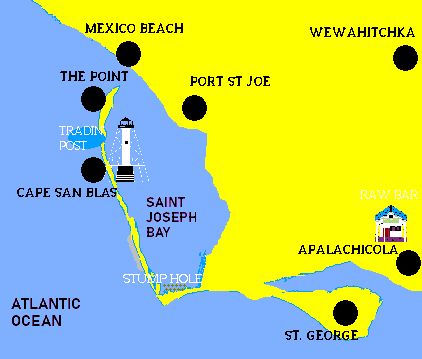
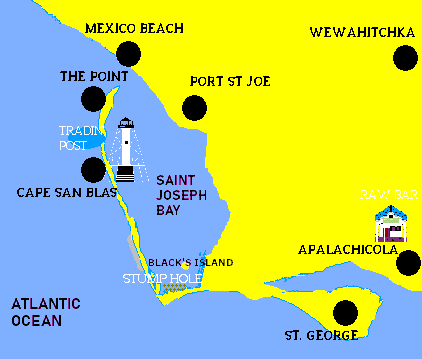
Put black island on world map UI.

Changed region(s): [[0.3389, 0.4903, 0.4929, 0.6741], [0.3389, 0.7047, 0.5545, 0.766]]

diff --git a/core/src/maps/mapchunks/MapChunkFourtyFive.java b/core/src/maps/mapchunks/MapChunkFourtyFive.java
@@ -54,7 +54,7 @@ public class MapChunkFourtyFive extends MapChunk {
 				{2, 2, 2, 2, 2, 2, 2, 2, 0, 0, 0, 0, 0, 0, 0, 0, 0, 0, 0, 0, 0, 0, 0, 0, 0, 0, 0, 0, 0, 0, 0, 0, 0, 0, 0, 0, 0, 0, 0, 0, 0, 0, 0, 0, 0, 0, 0, 2, 2, 2, 3, 3, 2, 2, 2, 2, 2, 2, 2, 2, 2, 2, 2, 7, 2, 2, 2, 2},
 				{0, 0, 2, 2, 2, 2, 2, 2, 2, 2, 0, 0, 0, 0, 0, 0, 0, 0, 0, 0, 0, 0, 0, 0, 0, 0, 0, 0, 0, 0, 0, 0, 0, 0, 0, 0, 0, 0, 0, 0, 0, 0, 0, 0, 0, 0, 0, 0, 2, 2, 2, 2, 2, 2, 2, 2, 2, 2, 2, 2, 2, 2, 2, 7, 2, 2, 2, 2},
 				{0, 2, 2, 2, 2, 2, 2, 2, 2, 2, 0, 0, 0, 0, 0, 0, 0, 0, 0, 0, 0, 0, 0, 0, 0, 0, 0, 0, 0, 0, 0, 0, 0, 0, 0, 0, 0, 0, 0, 0, 0, 0, 0, 0, 0, 0, 0, 0, 0, 2, 2, 2, 2, 2, 2, 2, 2, 2, 2, 2, 2, 2, 2, 7, 2, 2, 2, 2},
-				{2, 2, 2, 2, 2, 2, 2, 2, 2, 3, 0, 0, 0, 0, 0, 0, 0, 0, 0, 0, 0, 0, 0, 0, 0, 0, 0, 0, 0, 0, 0, 0, 0, 0, 0, 0, 0, 0, 0, 0, 0, 0, 0, 0, 0, 0, 0, 0, 0, 0, 0, 2, 2, 2, 2, 2, 2, 2, 2, 2, 2, 2, 2, 7, 2, 2, 2, 2},
+				{2, 2, 2, 2, 2, 2, 2, 2, 2, 0, 0, 0, 0, 0, 0, 0, 0, 0, 0, 0, 0, 0, 0, 0, 0, 0, 0, 0, 0, 0, 0, 0, 0, 0, 0, 0, 0, 0, 0, 0, 0, 0, 0, 0, 0, 0, 0, 0, 0, 0, 0, 2, 2, 2, 2, 2, 2, 2, 2, 2, 2, 2, 2, 7, 2, 2, 2, 2},
 				{2, 2, 2, 2, 2, 2, 2, 2, 2, 0, 0, 0, 0, 0, 0, 0, 0, 0, 0, 0, 0, 0, 0, 0, 0, 0, 0, 0, 0, 0, 0, 0, 0, 0, 0, 0, 0, 0, 0, 0, 0, 0, 0, 0, 0, 0, 0, 0, 0, 0, 0, 0, 2, 2, 2, 2, 2, 2, 2, 2, 2, 2, 2, 8, 5, 5, 5, 5},
 				{2, 2, 2, 2, 2, 2, 2, 2, 2, 0, 0, 0, 0, 0, 0, 0, 0, 0, 0, 0, 0, 0, 0, 0, 0, 0, 0, 0, 0, 0, 0, 0, 0, 0, 0, 0, 0, 0, 0, 0, 0, 0, 0, 0, 0, 0, 0, 0, 0, 0, 0, 0, 0, 2, 2, 3, 3, 2, 2, 2, 2, 2, 2, 3, 3, 2, 2, 2},
 				{2, 2, 2, 2, 2, 2, 2, 2, 2, 0, 0, 0, 0, 0, 0, 0, 0, 0, 0, 0, 0, 0, 0, 0, 0, 0, 0, 0, 0, 0, 0, 0, 0, 0, 0, 0, 0, 0, 0, 0, 0, 0, 0, 0, 0, 0, 0, 0, 0, 0, 0, 0, 0, 0, 2, 2, 2, 2, 2, 2, 2, 2, 2, 2, 2, 2, 2, 2},
